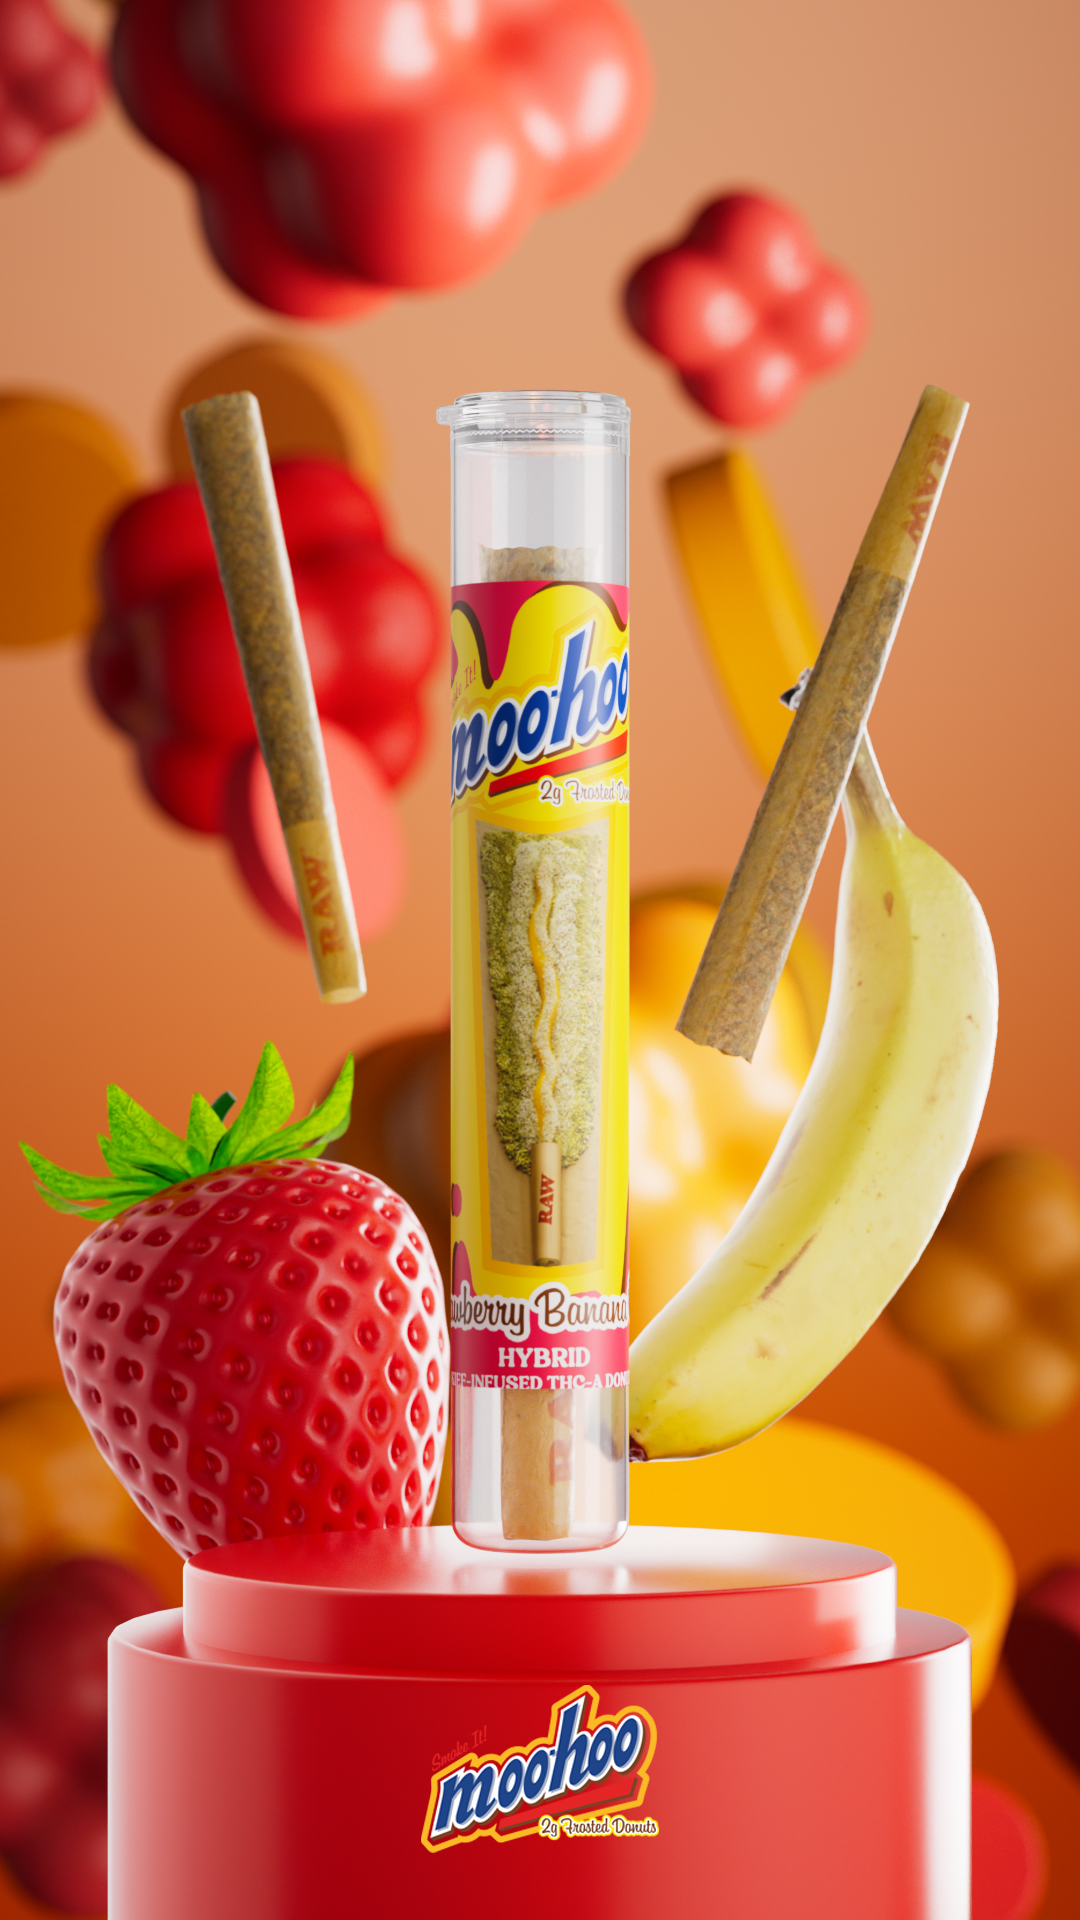
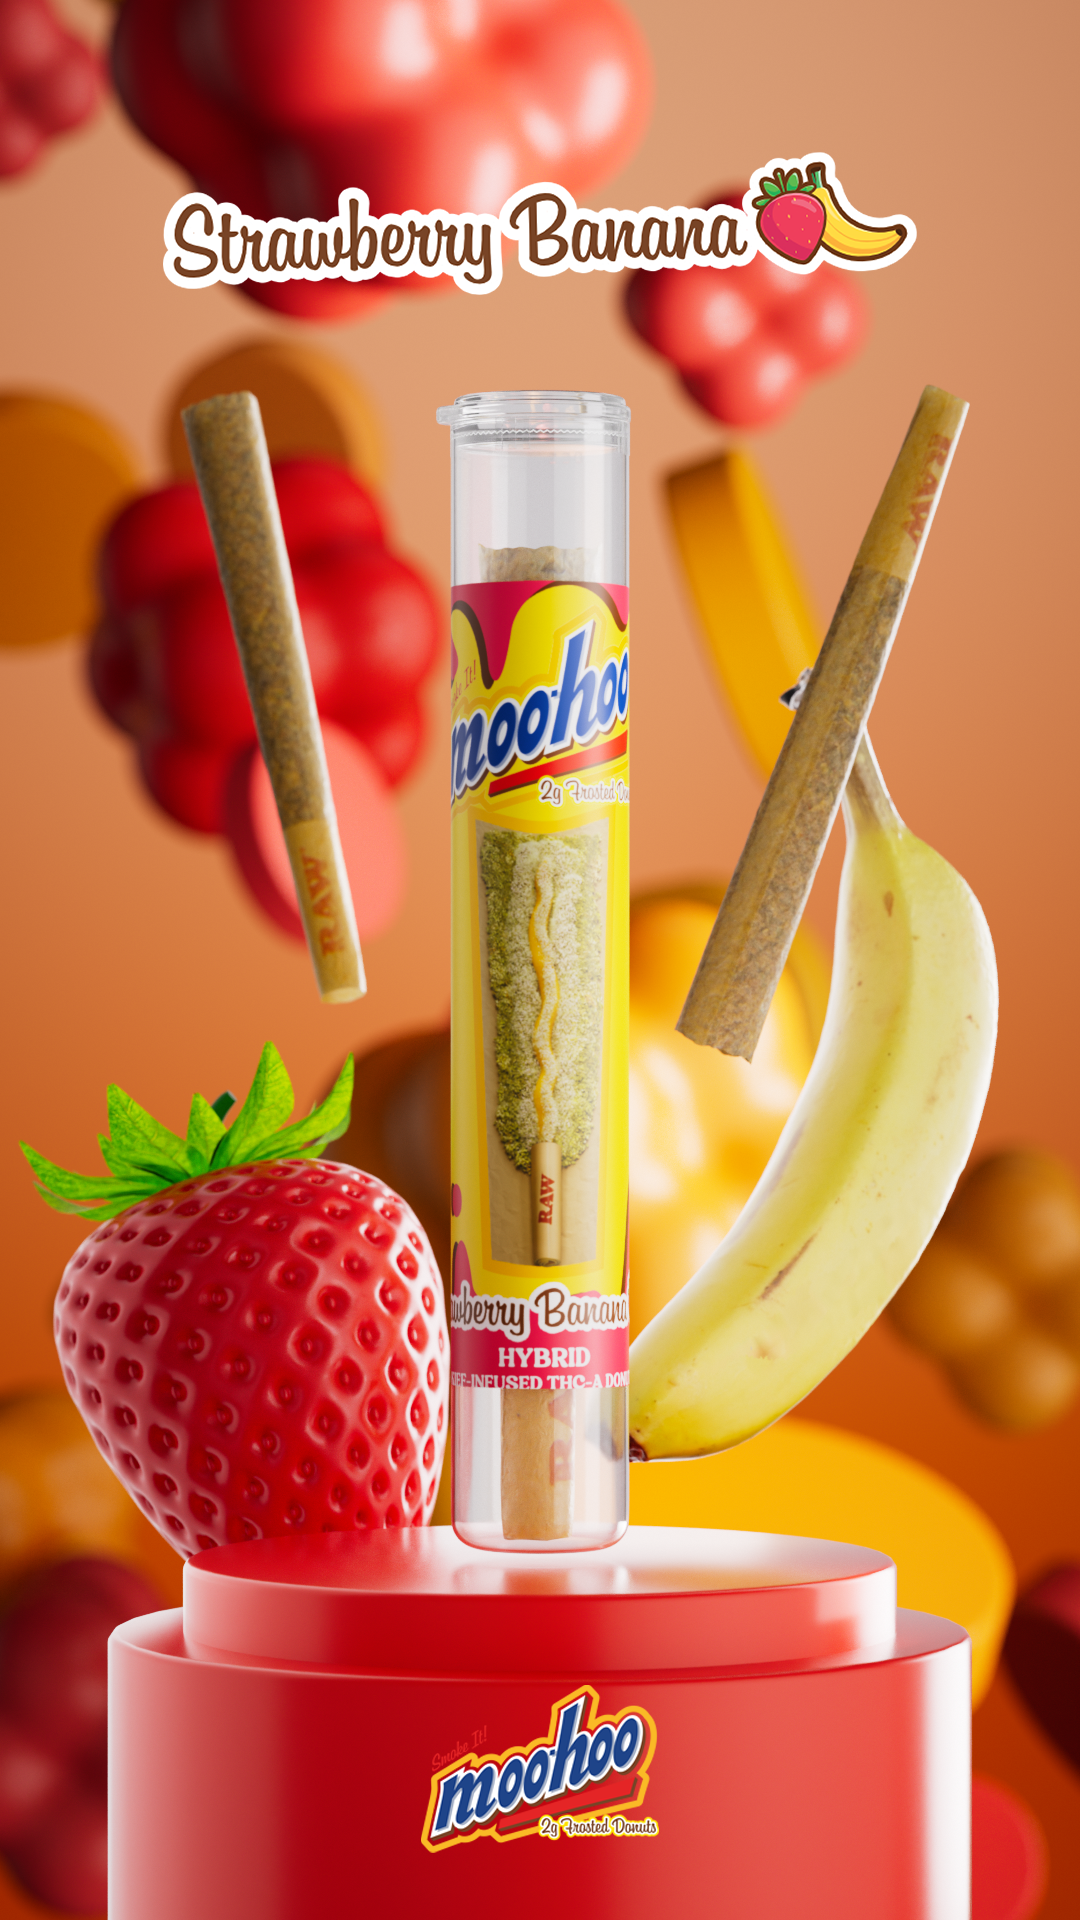
update

Changed region(s): [[0.1528, 0.0625, 0.8556, 0.1562]]

diff --git a/index.html b/index.html
@@ -33,13 +33,7 @@
 
   <!-- Product Gallery -->
   <main class="text-center">
-    <img src="pictures/13.png" class="product" alt="Flavor 1" />
-    <img src="pictures/14.png" class="img-fluid w-100" alt="Flavor 2" />
-    <img src="pictures/15.png" class="img-fluid w-100" alt="Flavor 3" />
-    <img src="pictures/16.png" class="img-fluid w-100" alt="Flavor 4" />
-    <img src="pictures/17.png" class="img-fluid w-100" alt="Flavor 5" />
-    <img src="pictures/18.png" class="img-fluid w-100" alt="Flavor 6" />
-    <img src="pictures/moohoo.png" class="img-fluid w-100" alt="Flavor 6" />
+    <img src="pictures/new poster.jpg" class="product" alt="Flavor 1" />
   </main>
 
   <!-- Swiper 3D Coverflow Slider -->
